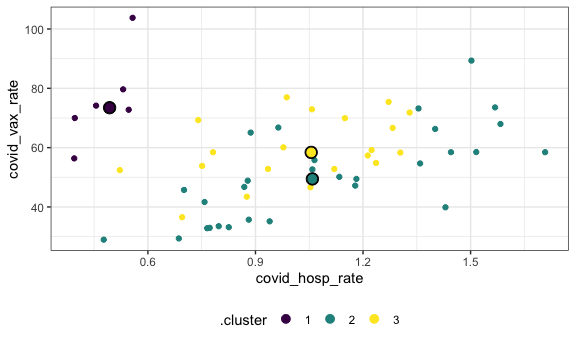
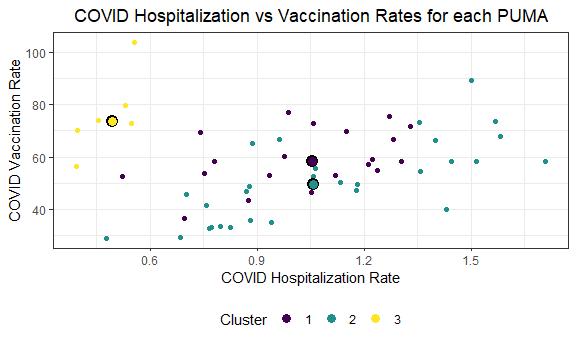
updated figure labels

diff --git a/modeling/risk_scores_and_clustering.md b/modeling/risk_scores_and_clustering.md
@@ -420,46 +420,38 @@ caret::confusionMatrix(table(sub_lasso$pred, sub_lasso$obs))
     ##        'Positive' Class : 0               
     ## 
 
-## The plot below shows coefficient estimates corresponding to a subset of the predictors in the dataset
+The plot below shows coefficient estimates corresponding to a subset of
+the predictors in the data set.
 
 ``` r
-#lambda <- 10^seq(-2, 3, length = 0.1)
-
 lambda  <- seq(0.0001, 1, length = 100)
 
 lambda_opt = lasso_model$bestTune$lambda
 
-
 result_plot <- broom::tidy(lasso_model$finalModel) %>% 
-select(term, lambda, estimate) %>% 
-complete(term, lambda, fill = list(estimate = 0) ) %>% 
-filter(term != "(Intercept)") %>% 
-ggplot(aes(x = log(lambda, 10), y = estimate, group = term, color = term)) + 
-geom_path() + 
-geom_vline(xintercept = log(lambda_opt, 10), color = "blue", size = 1.2) +
-theme(legend.position = "none")
-
-library(plotly)
-ggplotly(result_plot)
+  select(term, lambda, estimate) %>% 
+  complete(term, lambda, fill = list(estimate = 0) ) %>% 
+  filter(term != "(Intercept)") %>% 
+  ggplot(aes(x = log(lambda, 10), y = estimate, group = term, color = term)) + 
+  geom_path() + 
+  geom_vline(xintercept = log(lambda_opt, 10), color = "blue", size = 1.2) +
+  theme(legend.position = "none") +
+  labs(y = "Coefficient Estimate", title = "Coefficient Estimates for Varying Values of Lambda")
 ```
 
-<img src="risk_scores_and_clustering_files/figure-gfm/unnamed-chunk-3-1.png" width="90%" />
-
-## Getting Risk Prediction for each puma and visualize them.
+Below, we will obtain a risk prediction for each PUMA and visualize
+them.
 
 ``` r
 lambda <- lasso_model$bestTune$lambda
 lasso_fit = glmnet(x, y, lambda = lambda, family = "binomial")
 risk_predictions = (round((predict(lasso_fit, x, type = "response"))*100, 1))
 
-
 puma <- nyc_puma_summary %>% 
   select(puma)
 
 vax <- logistic_df %>% 
   select(below_herd_vax)
-
-
 
 risk_prediction <- 
   bind_cols(puma, vax, as.vector(risk_predictions)) %>%
@@ -471,12 +463,12 @@ risk_prediction %>%
   geom_bar(stat  = "identity") + 
   geom_hline(yintercept = 50, linetype = "dashed", color = "red") +
   theme(axis.text.x = element_text(angle = 90, vjust = 0.5, hjust = 1)) +
-  labs(title = "Predicting Risk Score of Vaccination Rate across Puma",
-       x = "Puma", y = "Risk Score") + 
-  scale_fill_manual(values = c("yellow", "purple"), labels = c("Below 70%", "Above 70%")) 
+  labs(title = "Predicting Risk Score of Vaccination Rate across PUMA",
+       x = "PUMA", y = "Risk Score") + 
+  scale_fill_manual(values = c("yellow", "purple"), labels = c("Below 70%", "Above 70%"))
 ```
 
-<img src="risk_scores_and_clustering_files/figure-gfm/unnamed-chunk-4-1.png" width="90%" />
+<img src="risk_scores_and_clustering_files/figure-gfm/visualizing risk scores by PUMA-1.png" width="90%" />
 
 ## Clustering
 
@@ -523,7 +515,8 @@ summary_df = full_df %>%
 ggplot(data = full_df, aes(x = covid_hosp_rate, y = covid_vax_rate, color = .cluster)) + 
   geom_point() + 
   geom_point(data = summary_df, aes(x = median_hosp, y = median_vax), color = "black", size = 4) +
-  geom_point(data = summary_df, aes(x = median_hosp, y = median_vax, color = .cluster), size = 2.75)
+  geom_point(data = summary_df, aes(x = median_hosp, y = median_vax, color = .cluster), size = 2.75) +
+  labs(x = "COVID Hospitalization Rate", y = "COVID Vaccination Rate", title = "COVID Hospitalization vs Vaccination Rates for each PUMA", color = "Cluster")
 ```
 
 <img src="risk_scores_and_clustering_files/figure-gfm/initial clustering-1.png" width="90%" />
@@ -574,7 +567,8 @@ summary_df = full_df %>%
 ggplot(data = full_df, aes(x = covid_hosp_rate, y = covid_vax_rate, color = factor(cluster))) + 
   geom_point() + 
   geom_point(data = summary_df, aes(x = median_hosp, y = median_vax), color = "black", size = 4) +
-  geom_point(data = summary_df, aes(x = median_hosp, y = median_vax, color = factor(cluster)), size = 2.75)
+  geom_point(data = summary_df, aes(x = median_hosp, y = median_vax, color = factor(cluster)), size = 2.75) +
+  labs(x = "COVID Hospitalization Rate", y = "COVID Vaccination Rate", title = "COVID Hospitalization vs Vaccination Rates for each PUMA", color = "Cluster")
 ```
 
 <img src="risk_scores_and_clustering_files/figure-gfm/scaled clustering-3.png" width="90%" />
@@ -586,22 +580,22 @@ We may want to evaluate this method’s clustering quality as follows:
 fviz_nbclust(for_clustering, kmeans, method = "wss")
 ```
 
-<img src="risk_scores_and_clustering_files/figure-gfm/unnamed-chunk-5-1.png" width="90%" />
+<img src="risk_scores_and_clustering_files/figure-gfm/unnamed-chunk-1-1.png" width="90%" />
 
 ``` r
 # Check for optimal number of clusters using silhouette method
 fviz_nbclust(for_clustering, kmeans, method = "silhouette")
 ```
 
-<img src="risk_scores_and_clustering_files/figure-gfm/unnamed-chunk-5-2.png" width="90%" />
+<img src="risk_scores_and_clustering_files/figure-gfm/unnamed-chunk-1-2.png" width="90%" />
 
 ``` r
-# Check fnumber of clusters that minimize gap statistic
+# Check number of clusters that minimize gap statistic
 gap_stat = clusGap(for_clustering, FUN = kmeans, nstart = 25, K.max = 20, B = 50)
 fviz_gap_stat(gap_stat)
 ```
 
-<img src="risk_scores_and_clustering_files/figure-gfm/unnamed-chunk-5-3.png" width="90%" />
+<img src="risk_scores_and_clustering_files/figure-gfm/unnamed-chunk-1-3.png" width="90%" />
 
 It seems that two clusters may actually work better than three, when
 clustering on predictors.
@@ -621,7 +615,7 @@ fviz_dist(distance, gradient = list(low = "#00AFBB", mid = "white", high = "#FC4
 <img src="risk_scores_and_clustering_files/figure-gfm/scaled - two clusters-1.png" width="90%" />
 
 ``` r
-# Cluster with three centers
+# Cluster with two centers
 k_scaled2 = kmeans(for_clustering, centers = 2)
 
 # Visualize cluster plot with reduction to two dimensions
@@ -650,7 +644,8 @@ summary_df = full_df %>%
 ggplot(data = full_df, aes(x = covid_hosp_rate, y = covid_vax_rate, color = factor(cluster))) + 
   geom_point() + 
   geom_point(data = summary_df, aes(x = median_hosp, y = median_vax), color = "black", size = 4) +
-  geom_point(data = summary_df, aes(x = median_hosp, y = median_vax, color = factor(cluster)), size = 2.75)
+  geom_point(data = summary_df, aes(x = median_hosp, y = median_vax, color = factor(cluster)), size = 2.75) +
+  labs(x = "COVID Hospitalization Rate", y = "COVID Vaccination Rate", title = "COVID Hospitalization vs Vaccination Rates for each PUMA", color = "Cluster")
 ```
 
 <img src="risk_scores_and_clustering_files/figure-gfm/scaled - two clusters-3.png" width="90%" />
